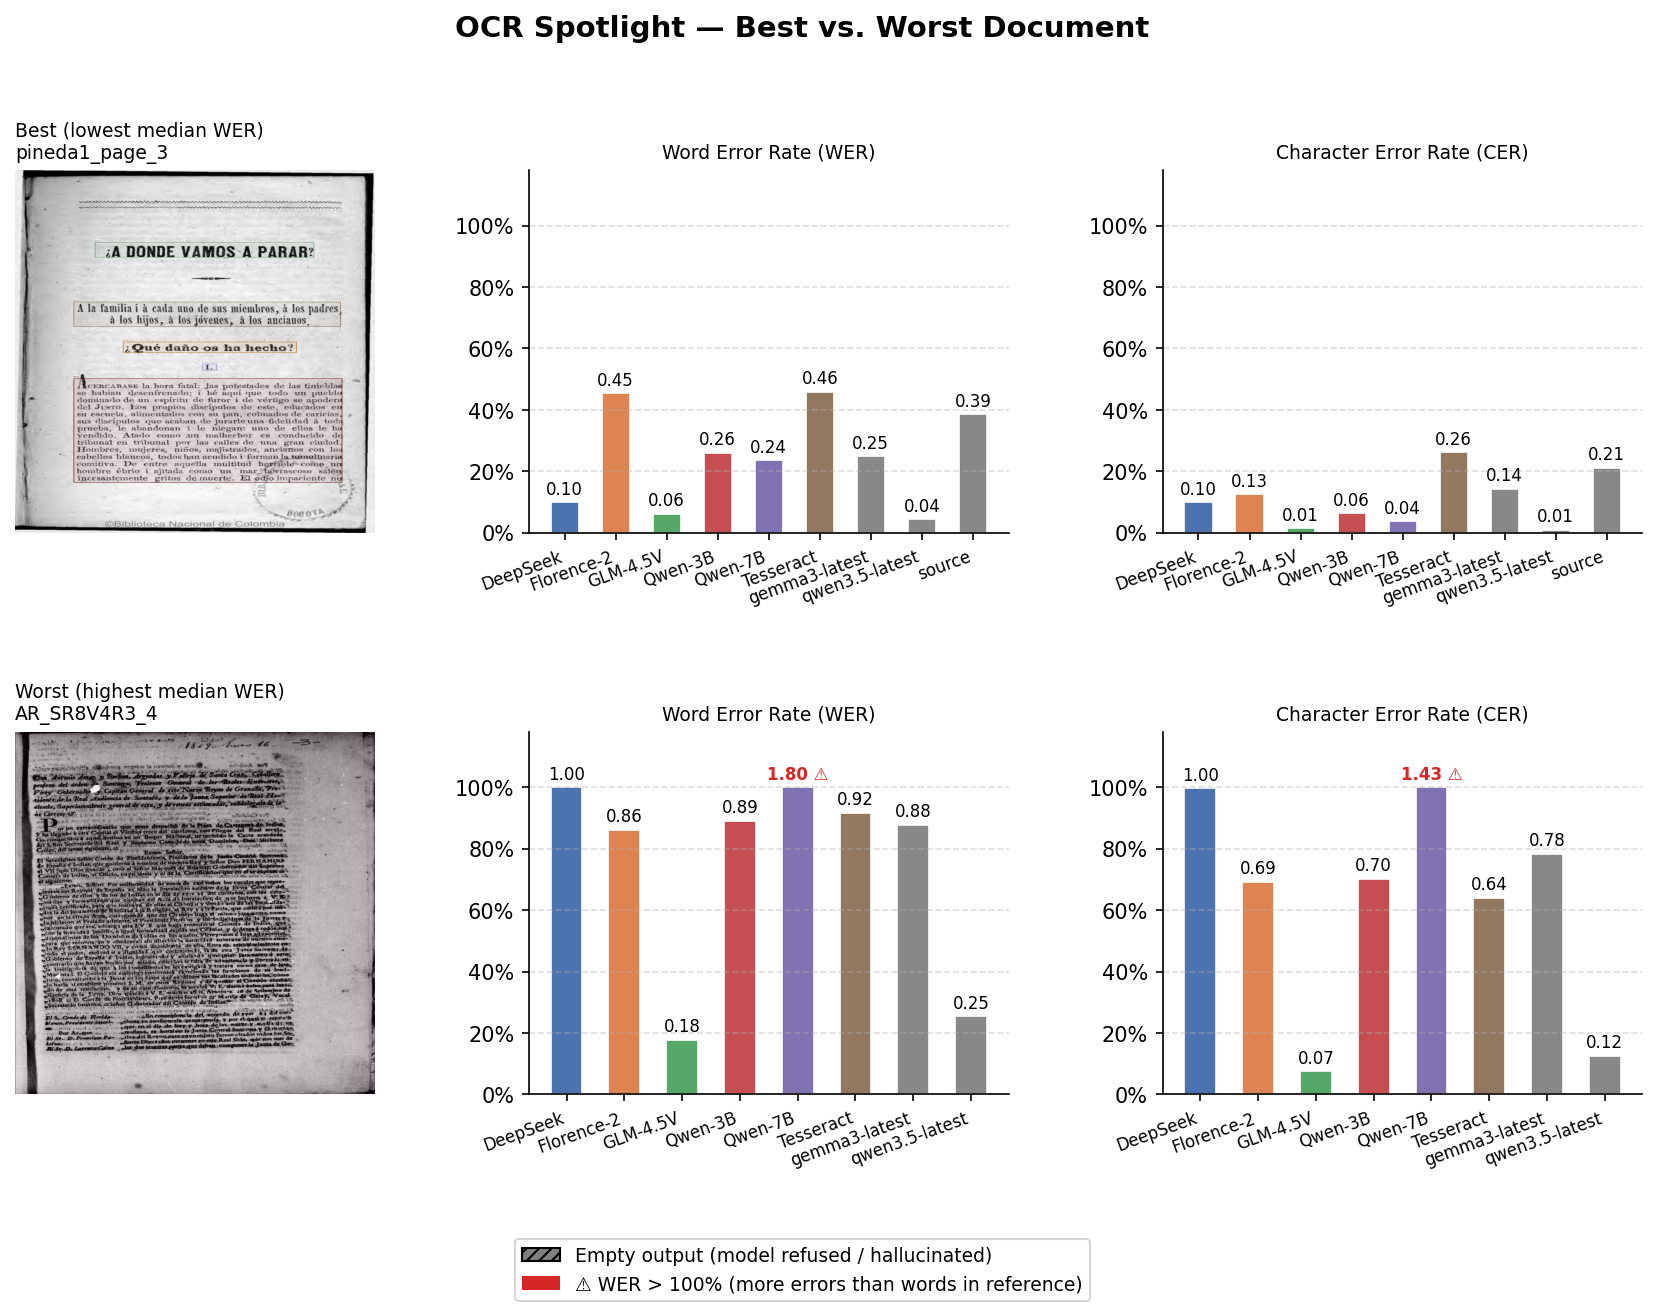
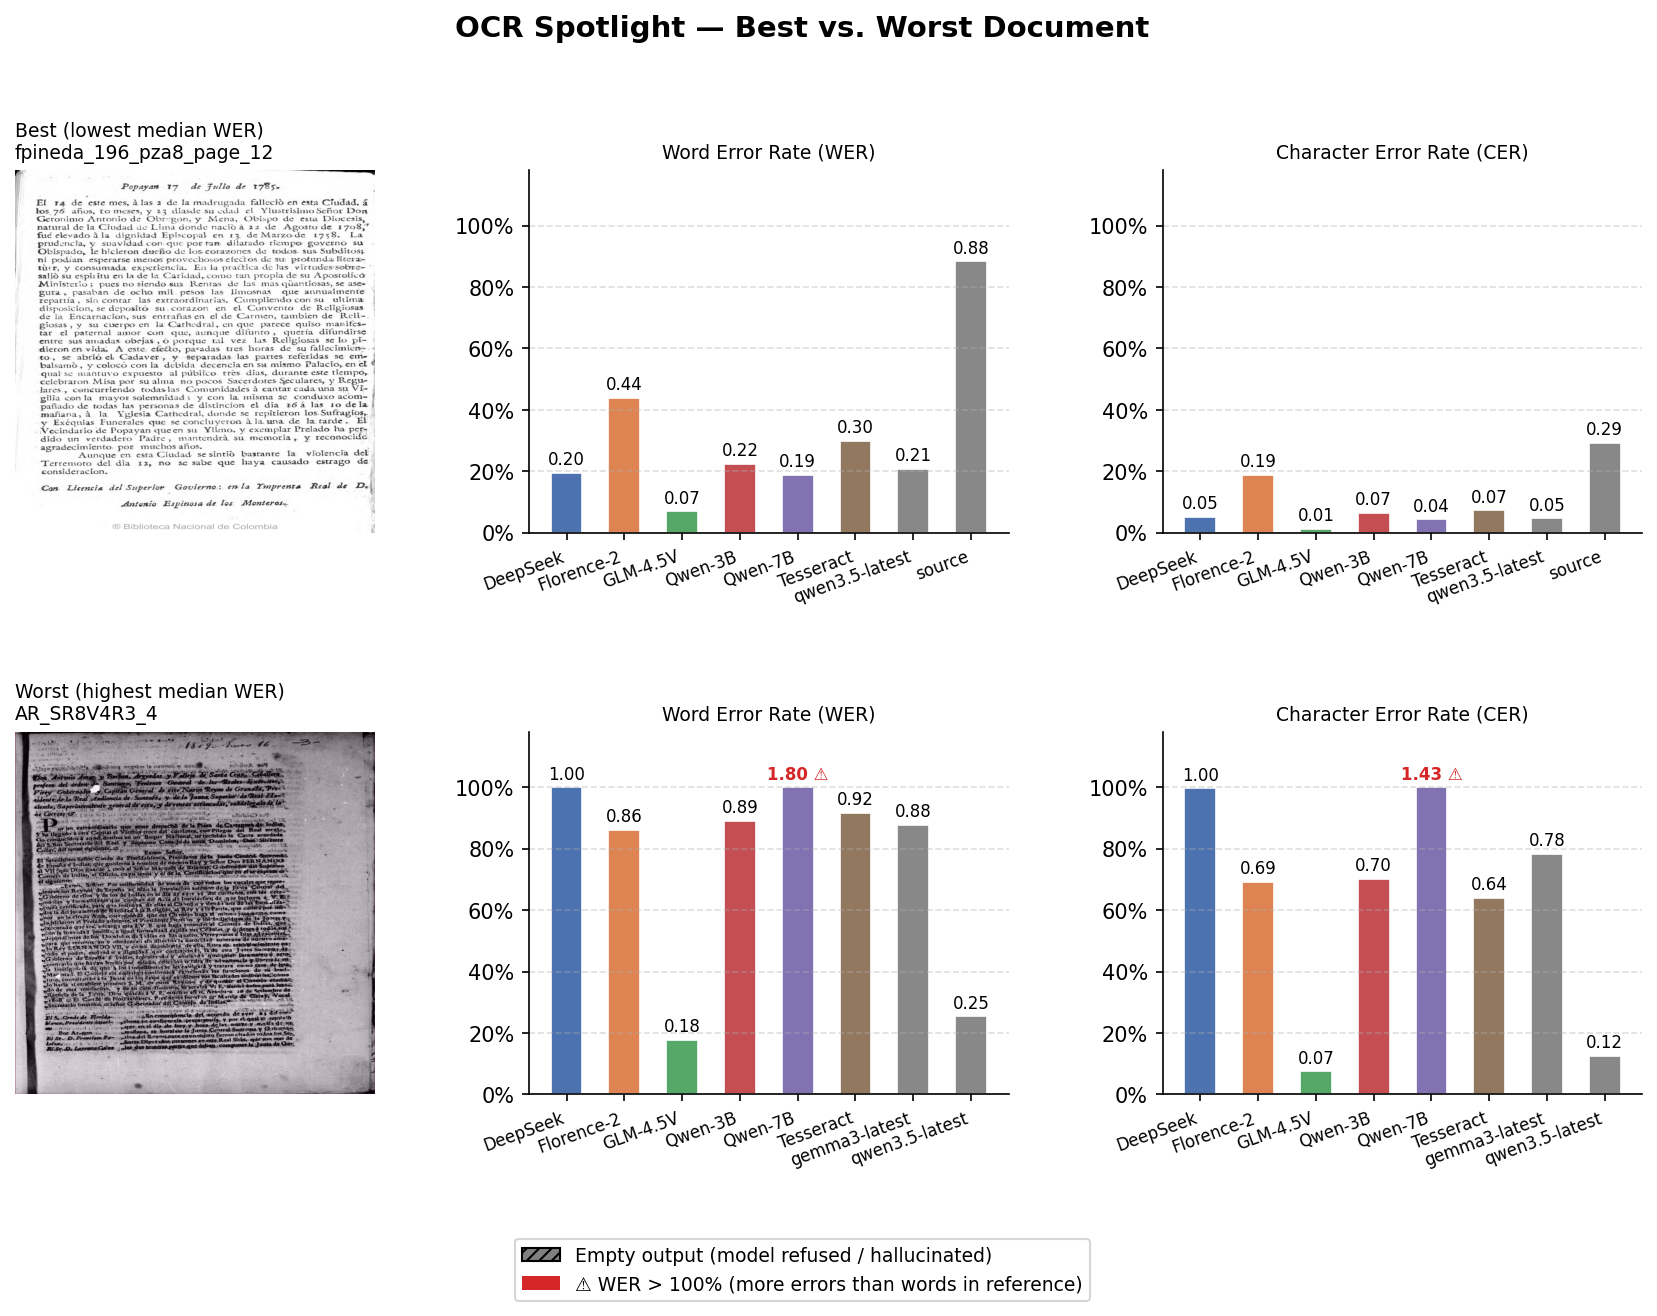
Add new evaluation JSON files and transcriptions for historical documents; update results images

diff --git a/transcriptions/GLM-4.5V/fpineda_184_pza6_page_1.md b/transcriptions/GLM-4.5V/fpineda_184_pza6_page_1.md
@@ -1,0 +1,37 @@
+3 N.I. 2:28:457* 2:70:1
+DIARIO POLITICO
+DE SANTAFE DE BOGOTA.
+Agosto 27 de 1810.
+In esta minima de vie 9am. 86.p.14 estan los mineros del XX al XXXVIII
+PROSPECTO.
+Sed incredibile est adepta libertate
+quam brevi creverit.... Livius.
+Difundir las luces, instruir á los pueblos, señalar los peligros que nos
+amenazan, y el camino para evitarlos, fixar la opinion, reunir las volun-
+tades y ahanzar la libertad y la independencia solo puede conseguirse
+por medio de la Imprenta. La circulacion rápida de los papeles públicos,
+la brevedad de los discursos, el laconismo y la eleccion de las marañas
+que los caracterizan los hacen los más aproposito para conseguir estos fines
+importantes. Son útiles á todo pueblo civilizedo, y precisos en las convulsi-
+ones politicas. Se multiplican á voluntad, llevan á todas partes los principios, lar
+luces, y disipan los nublados que en todo momento forman la sedicion y la ca-
+lumnia. Solo ellos pueden inspirar la union, calmar los espíritus, y tranquilizar
+las tempestades. Cualquiera otro medio es insuficiente, lento, y sospechoso.
+Nosotros, que el dia 20 de Julio de 1810 conquistamos nuestra
+independencia, nosotros, que formamos una Junta en quien depositar la
+autoridad, nosotros, que hemos visto degenciar en furo al zelo más ar-
+diente, y generoso, nosotros que hemos visto momentos de verdadera anar-
+quia, que aun no nos hemos organizado, que confundimos las provi-
+siones provisionales con la constitucion, que queremos royno la paz, el ór-
+den, y la cerenidad en medio de las olas de una tempestad politica, que
+inadvertidos queremos coger ya los frutos de una larga independencia, que
+exigimos de la Junta operaciones que necesitan estudio, produccion, me-
+ditacion, y tiempo, nosotros, en una palabra, que fluctuamos en un Oceano
+de ideas inconexas, sin experiencia, y casi sin principios necesitamos de un
+Diario político en que nuestros Franklins y nuestros Washingtones derramen
+luces y fijen nuestra incostancia y nuestra incertidumbre. La Capital ignora el
+modo de pensar de las provincias, y las provincias desean saber las solu-
+ciones de la Capital. Todo el Reyno ha fijado ya sus ojos sobre nosotros,
+y nosotros debemos instruirlo por el conducto de la Imprenta.
+Ya se acabó este tiempo de silencio y de misterios, y se rom-
+pieron las cadenas que han aprisionado á la razon y el ingenio; desaparecio para siempre esa reserva injusta á nuestra fidelidad, y ese secretos

diff --git a/transcriptions/GLM-4.5V/fpineda_196_pza8_page_12.md b/transcriptions/GLM-4.5V/fpineda_196_pza8_page_12.md
@@ -1,0 +1,4 @@
+Popayan 17 de Julio de 1785.
+El 14 de este mes, á las 2 de la madrugada falleció en esta Ciudad, á los 76 años, 10 meses, y 23 díasde su edad el Ylusttrisimo Señor Don Geronimo Antonio de Obregon, y Mena, Obispo de esta Diocesis, natural de la Ciudad de Lima donde nació á 22 de Agosto de 1708, fue elevado á la dignidad Episcopal en 13. de Marzode 1758. La prudencia, y suavidad con quc por tan dilatado tiempo governo su Obispado, le hicieron dueño de los corazones de todos sus Subditos; ni podian esperarse menos provechosos efectos dc su profunda litera-tur, y consumada experiencia. En la practica de las virtudes sobresalío su espiritu en la de la Caridad, como tan propria de su Apostolico Ministerio; pues no siendo sus Rentas de las mas quantiosas, se asegura, pasaban de ocho mil pesos las limosnas que annualmente repartia, sin contar las extraordinarias. Cumpliendo con su ultima disposicion, se depositó su corazon en el Convento de Religiosas de la Encarnacion, sus entrañas en el de Carmen, tambien de Reli-giosas, y su cuerpo en la Cathedral, en que parece quiso manifestar el paternal amor con que, aunque difunto, queria difundirse entre sus amadas obejas, ó porque tal vez las Religiosas se lo pidieron en vida. A este efecto, pasadas tres horas de su fallecimiento, se abrió el Cadaver, y separadas las partes referidas se embalsamó, y colocó con la debida decencia en su mismo Palacio, en el qual se mantuvo expuesto al público tres dias, durante este tiempo, celebraron Misa por su alma no pocos Sacerdotes Seculares, y Regulares, concurriendo todas las Comunidades á cantar cada una su Vigilia con la mayor solemnidad; y con la misma se conduxo acompañado de todas las personas de distincion el dia 16 á las 10 de la mañana, á la Yglesia Cathedral, donde se repitieron los Sufragios, y Exéquias Fúnebres que se concluyeron á la una de la tarde. El Vecindario de Popayan queen su Yllmo. y exemplar Prelado ha perdido un verdadero Padre, mantendrá su memoria, y reconocido agradecimiento por muchos años.
+Aunque en esta Ciudad se sintió bastante la violencia del Terremoto del dia 12, no se sabe que haya causado estrago de consideracion.
+Con Licencia del Superior Gobierno: en la Ymprenta Real de D. Antonio Espinosa de los Monteros.

diff --git a/transcriptions/GLM-4.5V/fpineda_30_pza2_page_2.md b/transcriptions/GLM-4.5V/fpineda_30_pza2_page_2.md
@@ -1,0 +1,5 @@
+2
+tan inestimable beneficio! Usando, pues de esta preciosa facultad ofrecemos la publicacion de este papel que saldrá los lunes con el objeto de inspirar amor á la virtud i aborrecimiento al vicio, con maximás de moral i urbanidad para instruccion de los niños. No juzgaremos la conducta pública ni privada de ningun empleado ni admitiremos ningun comunicado que sea ofensivo á ningun individuo; i esperamos de los ciudadanos virtuosos, amantes de la felicidad comun, se sirvan honrarnos con sus luces para cultivar la semilla que escojimos, cuyas comunicaciones se reciben en la tienda donde se vende. Si este papel nos diése con que hacer el costo de la prensa continuaremos algun tiempo publicandolo, i trataremos de cuanto creamos conducente al bien de la sociedad.
+JUEGO.
+El vicio que causa mas perjuicios á la so—
+© Biblioteca Nacional de Colombia
